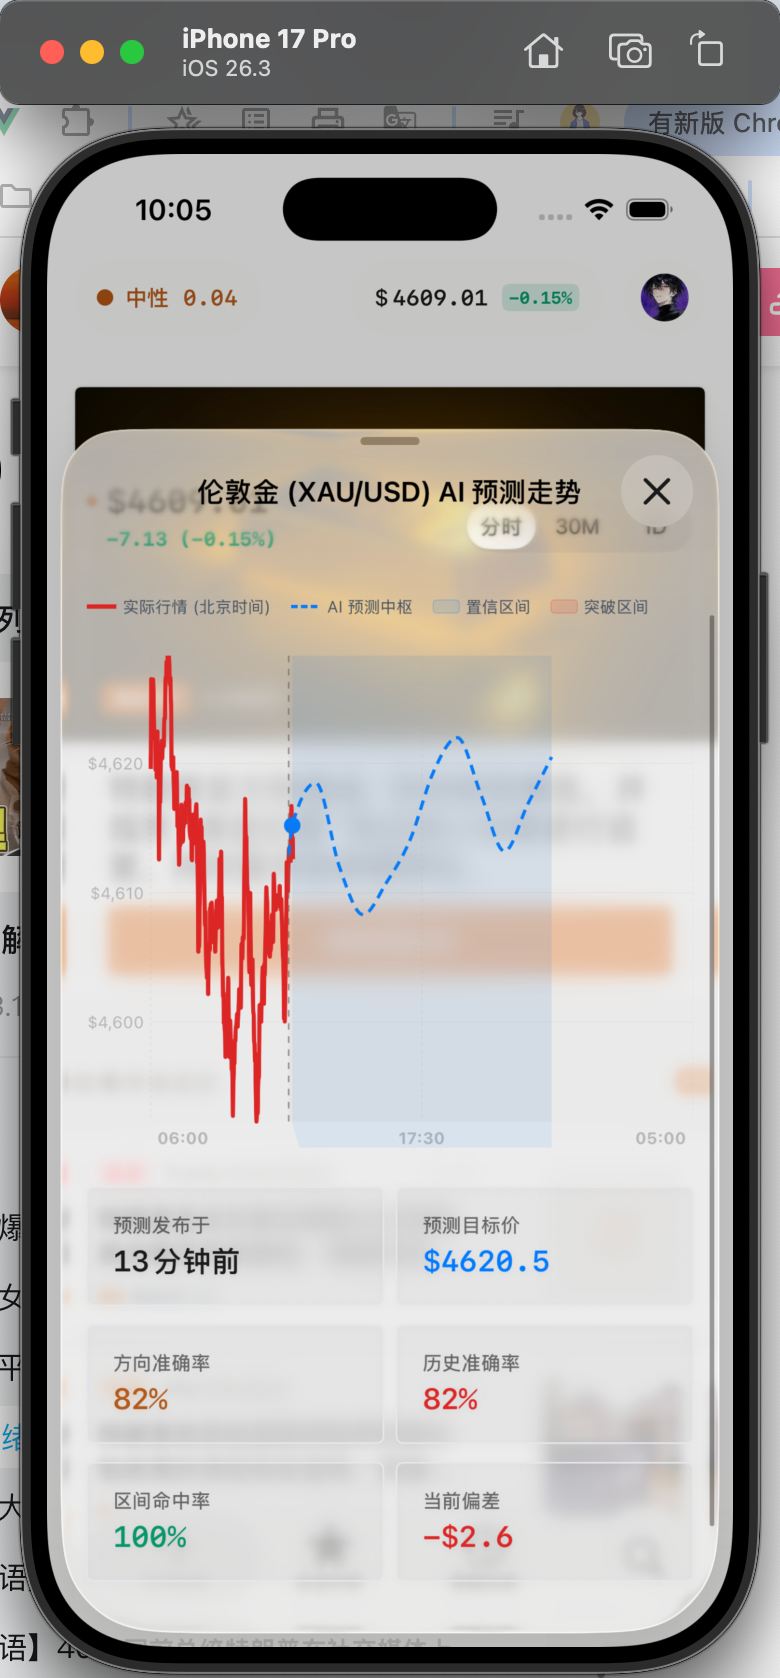
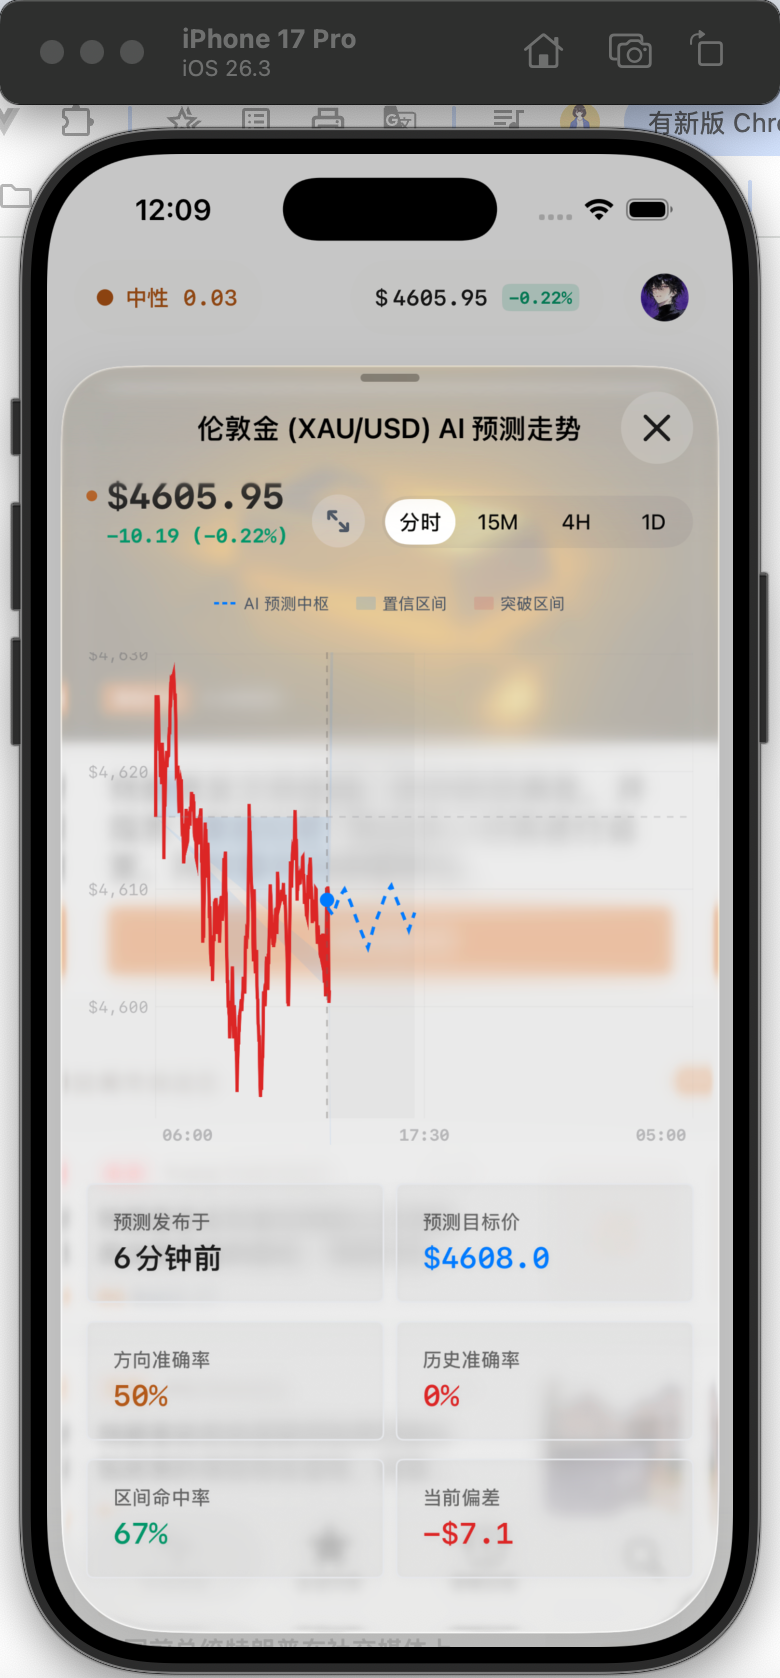
update

diff --git a/apps/mobile/ios/LucidPanda/LucidPanda/Features/Market/Components/GoldDeepAnalysisSheet.swift b/apps/mobile/ios/LucidPanda/LucidPanda/Features/Market/Components/GoldDeepAnalysisSheet.swift
@@ -149,16 +149,9 @@ public struct GoldDeepAnalysisSheet: View {
     }
     
     private var legendView: some View {
-        HStack(spacing: 12) {
+        HStack(spacing: 16) {
             HStack(spacing: 4) {
-                // 恢复实际行情标签：改为上下两个横条
-                VStack(spacing: 1.5) {
-                    Rectangle().fill(actualUpColor).frame(width: 12, height: 1.5)
-                    Rectangle().fill(actualDownColor).frame(width: 12, height: 1.5)
-                }
-                Text("actual_market_beijing_time").font(.system(size: 10)).foregroundStyle(Color.Alpha.textSecondary)
-            }
-            HStack(spacing: 4) {
+                // 预测中枢虚线图例
                 Path { path in
                     path.move(to: CGPoint(x: 0, y: 4))
                     path.addLine(to: CGPoint(x: 14, y: 4))
@@ -177,6 +170,7 @@ public struct GoldDeepAnalysisSheet: View {
                 Text("breakout_interval").font(.system(size: 10)).foregroundStyle(Color.Alpha.textSecondary)
             }
         }
+        .frame(maxWidth: .infinity, alignment: .leading)
     }
 
     private var metricCardsGrid: some View {
@@ -245,7 +239,12 @@ struct ProfessionalChartTooltip: View {
                     }
                 }
                 .font(.system(size: 11, weight: .semibold, design: .monospaced))
-                .foregroundStyle(a.price >= (a.open ?? a.price) ? upColor : downColor)
+                .foregroundStyle({
+                    let open = a.open ?? a.price
+                    if a.price > open { return upColor }
+                    if a.price < open { return downColor }
+                    return Color.Alpha.neutral
+                }())
             }
             
             if isPrediction, let p = predictions.first(where: { abs($0.timestamp.timeIntervalSince(snapDate)) < 1 }) {
@@ -289,6 +288,14 @@ struct ProfessionalGoldChart: View {
         f.dateFormat = "MM-dd"
         return f
     }()
+    
+    private static let priceFormatter: NumberFormatter = {
+        let f = NumberFormatter()
+        f.numberStyle = .decimal
+        f.minimumFractionDigits = 2
+        f.maximumFractionDigits = 2
+        return f
+    }()
 
     var body: some View {
         Chart {
@@ -302,7 +309,6 @@ struct ProfessionalGoldChart: View {
             }
             
             // 2. Prediction Confidence Area (Blue - Future ONLY)
-            // ⚠ 修复重叠：强制仅在历史数据点之后显示蓝色背景
             let lastHistoryTs = data.history.last?.timestamp ?? data.prediction.issuedAt
             let futureMid = data.prediction.mid.filter { $0.timestamp > lastHistoryTs }
             let futureUpper = data.prediction.upper.filter { $0.timestamp > lastHistoryTs }
@@ -336,8 +342,10 @@ struct ProfessionalGoldChart: View {
                 let preClose = data.previousClose ?? (data.history.first?.price ?? 0)
                 
                 // History Area Fill (Dynamic Red/Green based on baseline)
-                ForEach(data.history) { p in
-                    let isUp = p.price >= preClose
+                ForEach(data.history.indices, id: \.self) { i in
+                    let p = data.history[i]
+                    let compare = i > 0 ? data.history[i - 1].price : preClose
+                    let isUp = p.price >= compare
                     AreaMark(
                         x: .value("T", p.timestamp),
                         yStart: .value("B", preClose),
@@ -352,14 +360,17 @@ struct ProfessionalGoldChart: View {
                     )
                 }
                 
-                // Line Series (Split into UP and DOWN to force color segments)
-                ForEach(data.history) { p in
+                // Line Series (Segmented to force color changes)
+                ForEach(data.history.indices, id: \.self) { i in
+                    let p = data.history[i]
+                    let compare = i > 0 ? data.history[i - 1].price : preClose
+                    let isUp = p.price >= compare
                     LineMark(
                         x: .value("T", p.timestamp),
                         y: .value("P", p.price),
-                        series: .value("Series", "Actual")
+                        series: .value("Series", isUp ? "ActualUp" : "ActualDown")
                     )
-                    .foregroundStyle(p.price >= preClose ? upColor : downColor)
+                    .foregroundStyle(isUp ? upColor : downColor)
                     .lineStyle(StrokeStyle(lineWidth: 2))
                 }
                 
@@ -370,7 +381,11 @@ struct ProfessionalGoldChart: View {
             } else {
                 ForEach(data.history) { p in
                     if let open = p.open, let high = p.high, let low = p.low {
-                        let candleColor = p.price >= open ? upColor : downColor
+                        let candleColor: Color = {
+                            if p.price > open { return upColor }      // 涨：红（国内）
+                            if p.price < open { return downColor }    // 跌：绿（国内）
+                            return Color.Alpha.neutral                // 平：中性
+                        }()
                         RectangleMark(x: .value("T", p.timestamp), yStart: .value("L", low), yEnd: .value("H", high), width: 1).foregroundStyle(candleColor)
                         RectangleMark(x: .value("T", p.timestamp), yStart: .value("O", min(open, p.price)), yEnd: .value("C", max(open, p.price)), width: .fixed(8)).foregroundStyle(candleColor)
                     }
@@ -415,8 +430,14 @@ struct ProfessionalGoldChart: View {
                             if c.timestamp > data.history.last?.timestamp ?? data.prediction.issuedAt {
                                 return predictionLineColor
                             } else {
-                                let histPoint = data.history.first(where: { abs($0.timestamp.timeIntervalSince(c.timestamp)) < 1 })
-                                return (histPoint?.price ?? 0) >= (histPoint?.open ?? histPoint?.price ?? 0) ? upColor : downColor
+                                guard let idx = data.history.firstIndex(where: { abs($0.timestamp.timeIntervalSince(c.timestamp)) < 1 }) else {
+                                    return upColor
+                                }
+                                let current = data.history[idx].price
+                                let compare = idx > 0
+                                    ? data.history[idx - 1].price
+                                    : (data.previousClose ?? data.history.first?.price ?? current)
+                                return current >= compare ? upColor : downColor
                             }
                         }())
                         .symbolSize(60)
@@ -427,11 +448,8 @@ struct ProfessionalGoldChart: View {
         .chartYScale(domain: yDomain)
         .chartXAxis { xAxisContent }
         .chartYAxis {
-            AxisMarks(position: .leading) { value in
+            AxisMarks(position: .leading, values: .stride(by: 2.0)) { value in
                 AxisGridLine(stroke: StrokeStyle(lineWidth: 0.5)).foregroundStyle(.gray.opacity(0.1))
-                if let price = value.as(Double.self) {
-                    AxisValueLabel { Text("$\(Int(price))").font(.system(size: 10, design: .monospaced)).foregroundStyle(.secondary) }
-                }
             }
         }
         .chartOverlay { proxy in
@@ -473,6 +491,10 @@ struct ProfessionalGoldChart: View {
         let range = max - min
         let padding = range * 0.05
         return (min - padding)...(max + padding)
+    }
+    
+    private static func formattedPrice(_ value: Double) -> String {
+        priceFormatter.string(from: NSNumber(value: value)) ?? String(format: "%.2f", value)
     }
 
     @AxisContentBuilder
